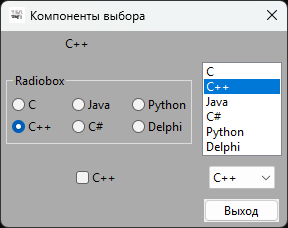
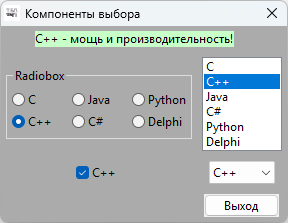
rev. 20250331094725

diff --git a/README.md b/README.md
@@ -3,6 +3,101 @@
 
 ![srcreenshot](screenshot.png)
 
+```
+/*
+ * wxEVT_COMMAND_LISTBOX_SELECTED event handler for ID_LISTBOX
+ */
+
+// Обработчик выбора элемента в ListBox
+void MainForm::OnListboxSelected( wxCommandEvent& event )
+{
+	int i = ListBox1->GetSelection(); // Получаем индекс выбранного элемента
+	wxString s = ListBox1->GetString(i); // Получаем строку выбранного элемента
+	UpdateSelectedValue(s); // Обрабатываем выбор пользователя
+}
+
+
+/*
+ * wxEVT_COMMAND_CHOICE_SELECTED event handler for ID_CHOICE
+ */
+
+// Обработчик выбора элемента в Choice (выпадающем списке)
+void MainForm::OnChoiceSelected( wxCommandEvent& event )
+{
+	int i = Choice1->GetSelection(); // Получаем индекс выбранного элемента
+	wxString s = Choice1->GetString(i); // Получаем строку выбранного элемента
+	UpdateSelectedValue(s); // Обрабатываем выбор пользователя
+}
+
+
+/*
+ * wxEVT_COMMAND_RADIOBOX_SELECTED event handler for ID_RADIOBOX
+ */
+
+// Обработчик выбора варианта в RadioBox
+void MainForm::OnRadioboxSelected( wxCommandEvent& event )
+{
+	int k = RadioBox1->GetSelection(); // Получаем индекс выбранного элемента
+	wxString s = RadioBox1->GetString(k); // Получаем строку выбранного элемента
+	UpdateSelectedValue(s); // Обрабатываем выбор пользователя
+}
+
+
+/*
+ * wxEVT_COMMAND_CHECKBOX_CLICKED event handler for ID_CHECKBOX
+ */
+
+// Обработчик нажатия на CheckBox
+void MainForm::OnCheckboxClick( wxCommandEvent& event )
+{
+	StaticText1->SetBackgroundColour(wxColour(255, 255, 255)); 
+    bool b = CheckBox1->GetValue(); // Получаем текущее состояние чекбокса
+	if (b == true) {
+		StaticText1->SetLabel(wxString::FromUTF8("Да!")); // Устанавливаем "Да!" если включен
+	} else {
+		StaticText1->SetLabel(wxString::FromUTF8("Нет!")); // Устанавливаем "Нет!" если выключен
+	}
+}
+
+// Универсальная функция для обработки выбранного значения
+void MainForm::UpdateSelectedValue(const wxString& selectedValue)
+{
+    wxString message;
+    wxColour backgroundColor;
+    
+    // Используем switch для определения сообщения и цвета фона
+    if (selectedValue == wxT("C")) {
+        message = wxT("C - классика программирования!");
+        backgroundColor = wxColour(200, 200, 255); // Светло-синий
+    } else if (selectedValue == wxT("C++")) {
+        message = wxT("C++ - мощь и производительность!");
+        backgroundColor = wxColour(200, 255, 200); // Светло-зеленый
+    } else if (selectedValue == wxT("Java")) {
+        message = wxT("Java - это круто!");
+        backgroundColor = wxColour(255, 200, 200); // Светло-красный
+    } else if (selectedValue == wxT("C#")) {
+        message = wxT("C# - .NET решение для всего!");
+        backgroundColor = wxColour(255, 255, 200); // Светло-желтый
+    } else if (selectedValue == wxT("Python")) {
+        message = wxT("Python - простота и элегантность!");
+        backgroundColor = wxColour(200, 255, 255); // Светло-голубой
+    } else if (selectedValue == wxT("Delphi")) {
+        message = wxT("Delphi - быстрая разработка приложений!");
+        backgroundColor = wxColour(255, 200, 255); // Светло-пурпурный
+    } else {
+        message = selectedValue;
+        backgroundColor = wxColour(240, 240, 240); // Стандартный серый
+    }
+    
+    // Устанавливаем новый текст и цвет фона
+    StaticText1->SetLabel(message);
+    StaticText1->SetBackgroundColour(backgroundColor);
+    
+    // Заставляем StaticText1 перерисоваться для отображения изменений
+    StaticText1->Refresh();
+}
+```
+
 ## Ссылки:
 
 http://www.anthemion.co.uk/dialogblocks/
